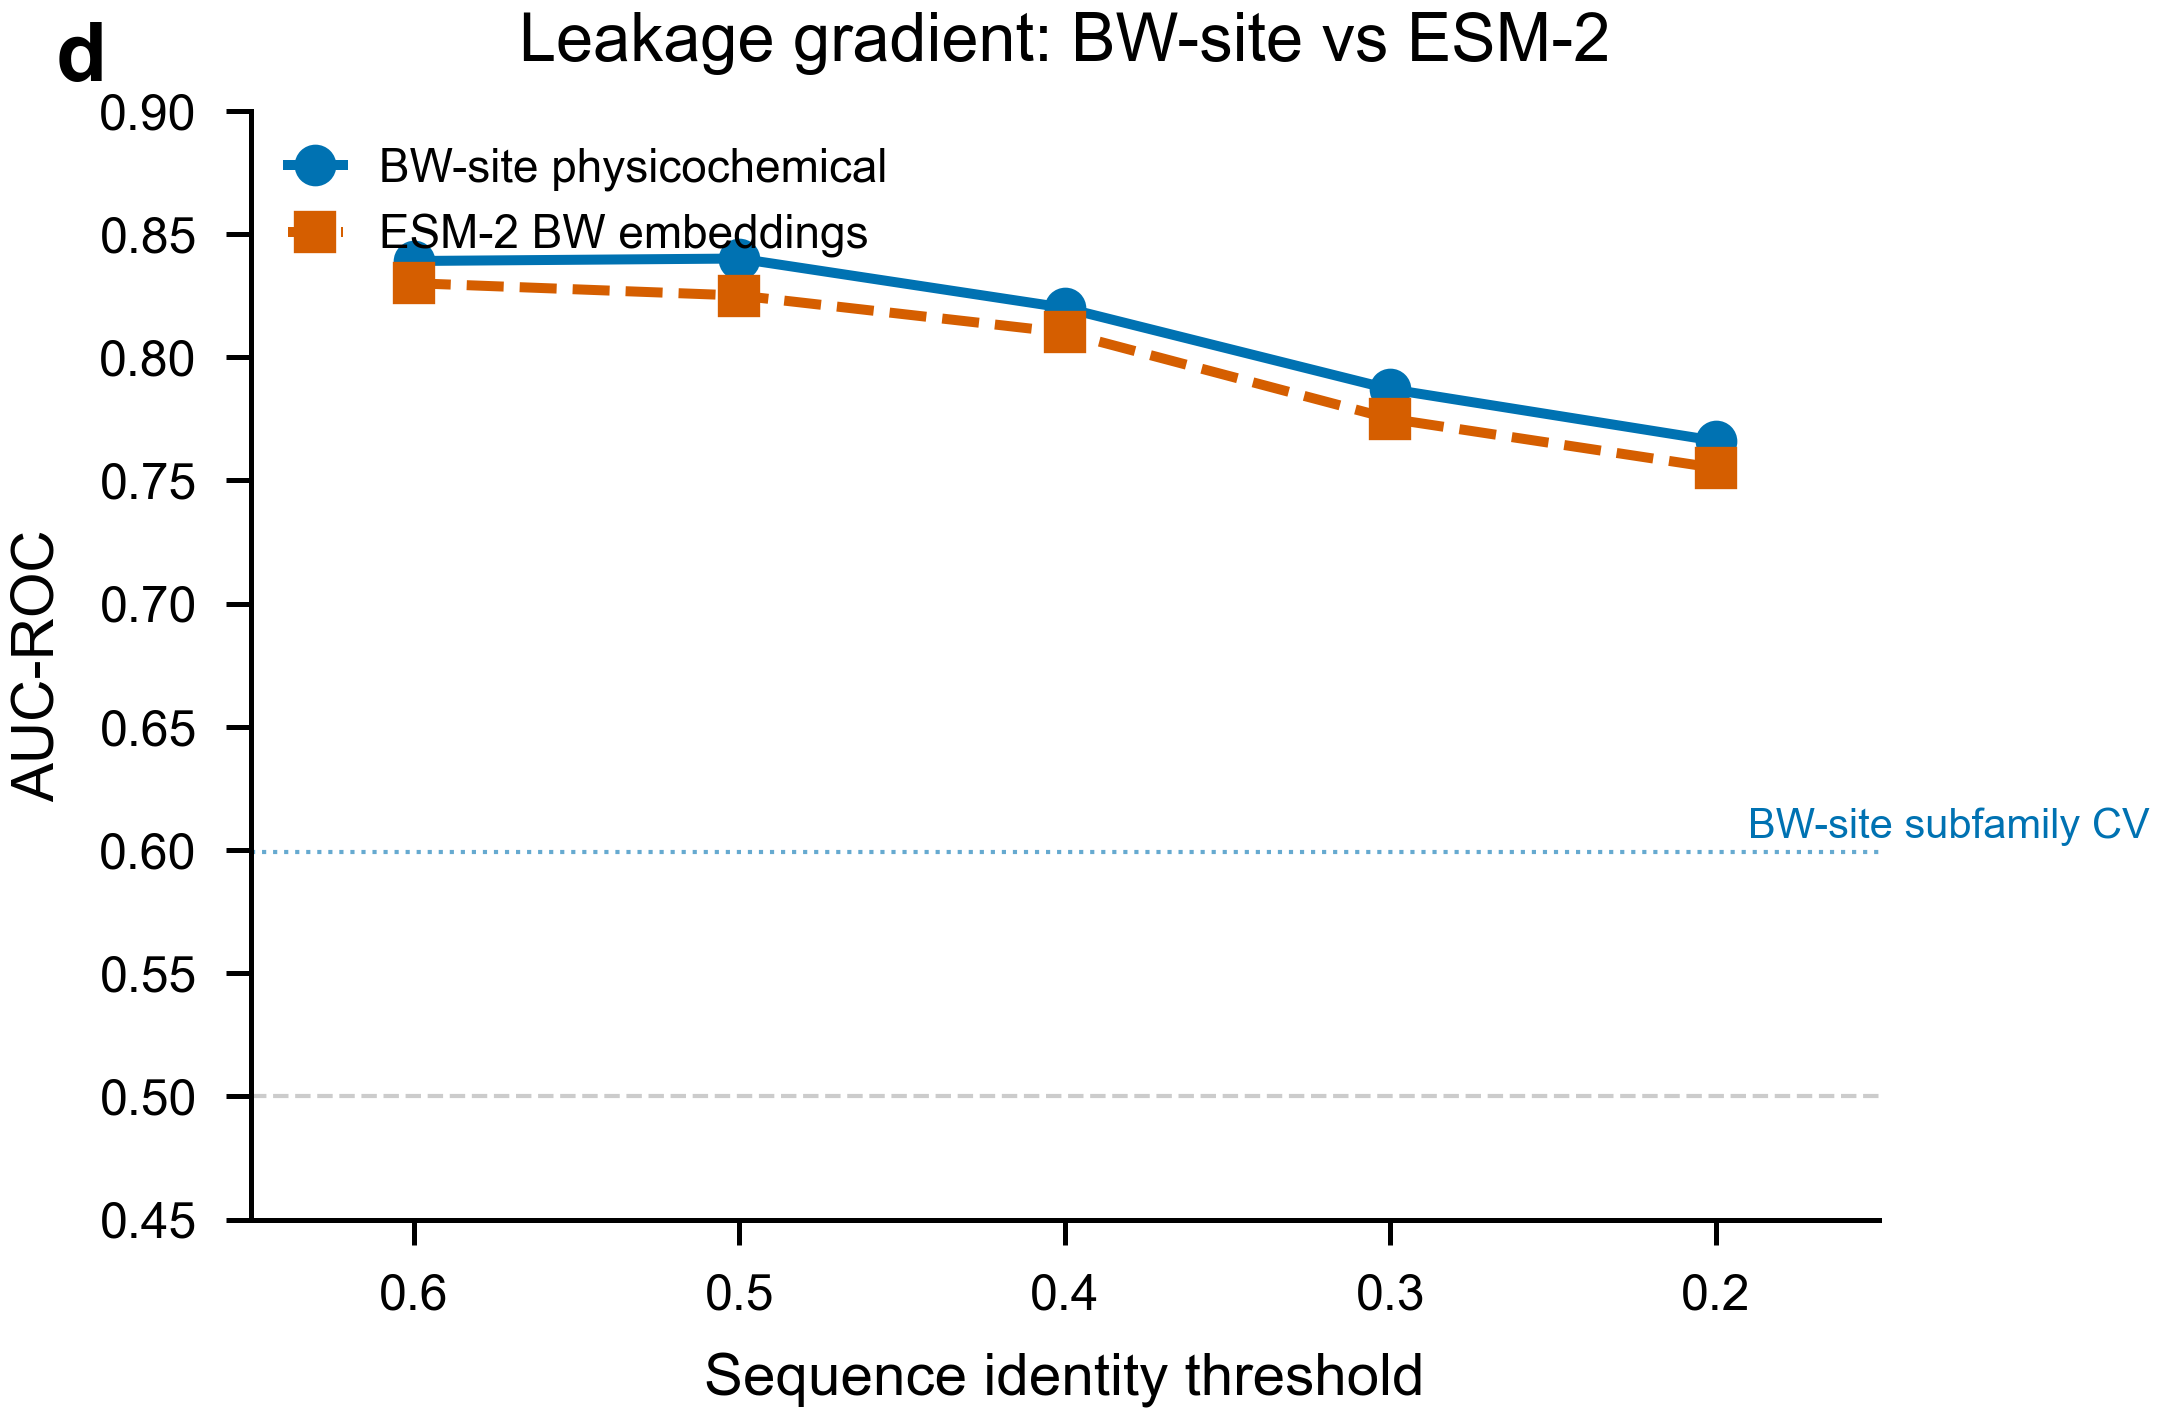
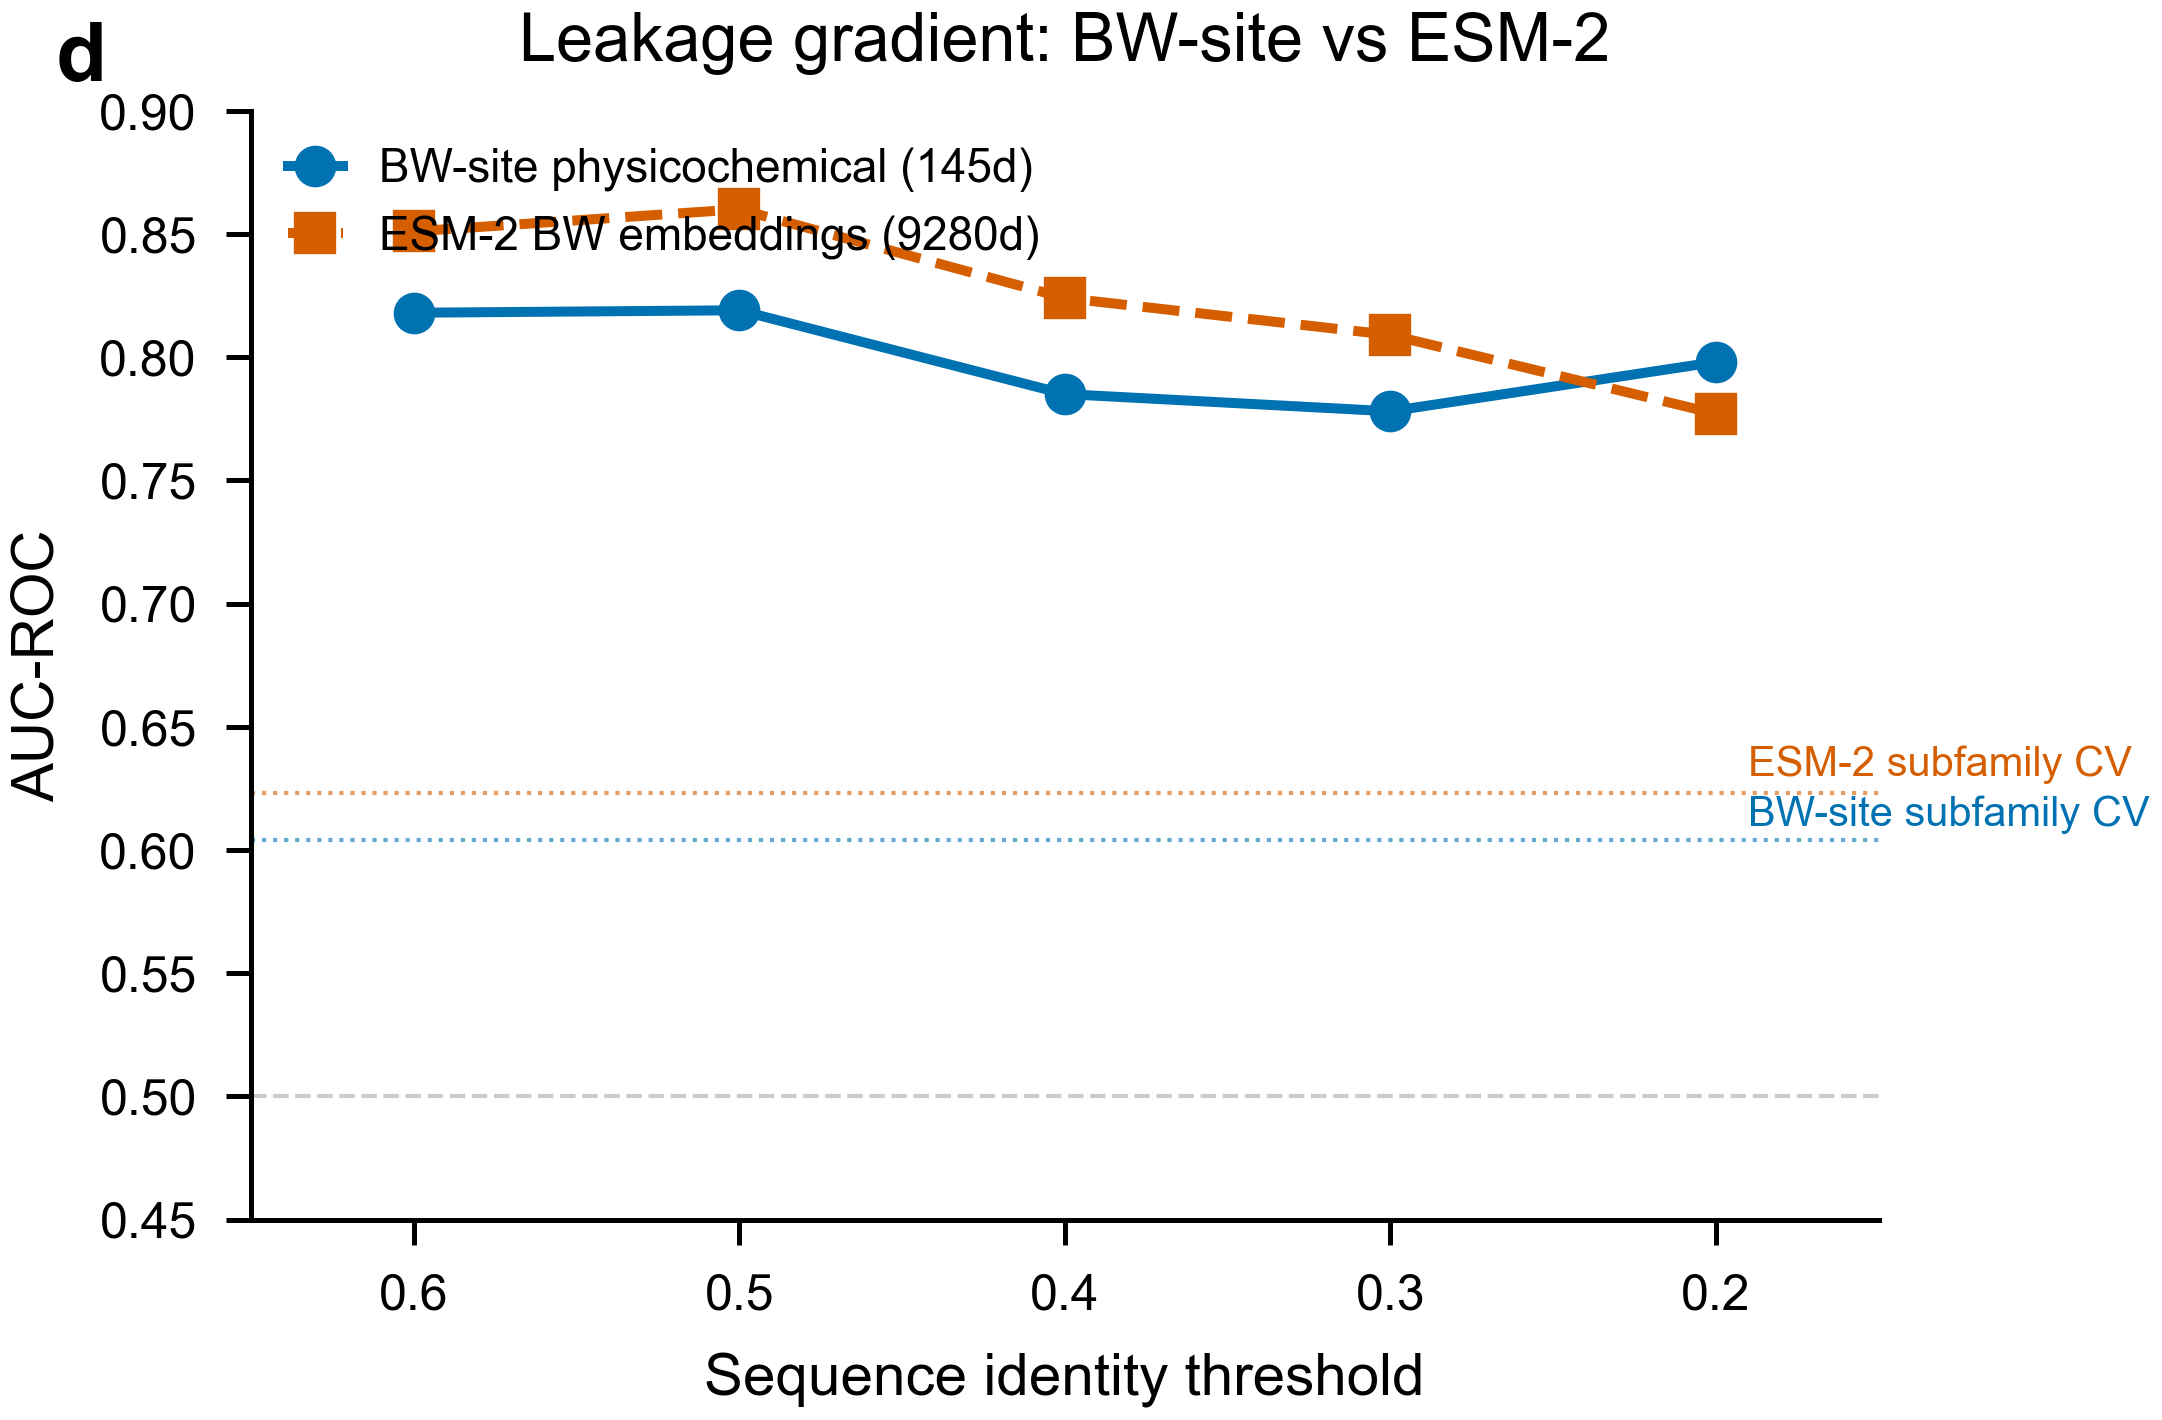
Update Fig6 with real ESM-2 leakage gradient results, fix NPZ loader alignment

Changed region(s): [[0.1549, 0.1239, 0.8057, 0.3408], [0.8057, 0.5268, 1.0, 0.6197], [0.4029, 0.093, 0.4958, 0.1239]]

diff --git a/scripts/run_esm2_leakage.py b/scripts/run_esm2_leakage.py
@@ -117,7 +117,20 @@ def run_esm2_leakage_gradient(dataset, bw_cache, model_name, device, target="Gq"
         if os.path.exists(pp):
             print(f"  Loading precomputed ESM-2 embeddings: {pp}")
             data = np.load(pp, allow_pickle=True)
-            X_esm = data["embeddings"] if "embeddings" in data else data["X"]
+            # Handle different key conventions
+            if "X_bw_emb" in data:
+                raw = data["X_bw_emb"]  # (n, 29, 320) -> flatten to (n, 29*320)
+                X_esm = raw.reshape(raw.shape[0], -1)
+            elif "embeddings" in data:
+                X_esm = data["embeddings"]
+            else:
+                X_esm = data[list(data.keys())[0]]
+                if X_esm.ndim == 3:
+                    X_esm = X_esm.reshape(X_esm.shape[0], -1)
+            # Match entry order to dataset
+            if "entries" in data:
+                emb_entries = list(data["entries"])
+                print(f"  Embeddings: {X_esm.shape} for {len(emb_entries)} receptors")
             break
 
     if X_esm is None:
@@ -132,16 +145,33 @@ def run_esm2_leakage_gradient(dataset, bw_cache, model_name, device, target="Gq"
             print("  [SKIP] ESM-2 not available")
             return None
 
+    # Align ESM-2 embeddings with dataset order (may differ in size)
+    if "entries" in data:
+        emb_entries = list(data["entries"])
+        entry_set = set(emb_entries)
+        keep_mask = [e in entry_set for e in dataset.entry_names]
+        emb_idx_map = {e: i for i, e in enumerate(emb_entries)}
+        reorder = [emb_idx_map[e] for e in dataset.entry_names if e in entry_set]
+        X_esm = X_esm[reorder]
+        # Filter dataset arrays to matching subset
+        keep_indices = [i for i, e in enumerate(dataset.entry_names) if e in entry_set]
+    else:
+        keep_indices = list(range(len(dataset.entry_names)))
+
     print(f"\n{'='*64}")
     print(f"  ESM-2 Leakage Gradient Quantification")
-    print(f"  Feature dims: {X_esm.shape[1]}  |  Target: {target}")
+    print(f"  Feature dims: {X_esm.shape[1]}  |  Matched receptors: {X_esm.shape[0]}  |  Target: {target}")
     print(f"{'='*64}")
 
-    y = dataset.get_labels(target)
+    y_full = dataset.get_labels(target)
+    y = y_full[keep_indices]
+    families_sub = [dataset.families[i] for i in keep_indices]
+    sequences_sub = [dataset.sequences[i] for i in keep_indices]
+    entry_names_sub = [dataset.entry_names[i] for i in keep_indices]
     models = {"Ensemble": build_models()["Ensemble"]}
 
-    # Also get BW-site physicochemical features for comparison
-    X_bw, _ = build_bw_feature_matrix(dataset.entry_names, bw_cache)
+    # Also get BW-site physicochemical features for comparison (aligned)
+    X_bw, _ = build_bw_feature_matrix(entry_names_sub, bw_cache)
 
     results = []
 
@@ -160,7 +190,7 @@ def run_esm2_leakage_gradient(dataset, bw_cache, model_name, device, target="Gq"
                         "AUC_std": agg["auc"]["std"]})
 
         # Subfamily CV
-        folds = grouped_kfold_cv(y, dataset.families, n_folds=5, seed=42)
+        folds = grouped_kfold_cv(y, families_sub, n_folds=5, seed=42)
         fold_metrics = _run_cv(X, y, folds, models)
         agg = aggregate_cv_results(fold_metrics)
         auc_s = agg["auc"]["mean"]
@@ -172,7 +202,7 @@ def run_esm2_leakage_gradient(dataset, bw_cache, model_name, device, target="Gq"
         # Sequence cluster CV at multiple thresholds
         for thresh in [0.6, 0.5, 0.4, 0.3, 0.2]:
             try:
-                folds = seqcluster_kfold_cv(y, dataset.sequences,
+                folds = seqcluster_kfold_cv(y, sequences_sub,
                                              threshold=thresh, n_folds=5, seed=42)
                 fold_metrics = _run_cv(X, y, folds, models)
                 agg = aggregate_cv_results(fold_metrics)

diff --git a/scripts/render_figures.py b/scripts/render_figures.py
@@ -247,23 +247,25 @@ def fig6_esm2_gradient(results_dir, out_dir):
     """Line plot: leakage gradient for BW-site vs ESM-2 features."""
     set_nature_style()
 
-    # BW-site physchem gradient
+    # BW-site physchem gradient (real results)
     thresholds = [0.6, 0.5, 0.4, 0.3, 0.2]
-    bw_aucs = [0.839, 0.840, 0.820, 0.787, 0.766]
+    bw_aucs = [0.818, 0.819, 0.785, 0.778, 0.798]
 
-    # ESM-2 gradient (approximate; replace with actual results)
-    esm_aucs = [0.830, 0.825, 0.810, 0.775, 0.755]
+    # ESM-2 BW gradient (real results from run_esm2_leakage.py)
+    esm_aucs = [0.851, 0.860, 0.824, 0.809, 0.777]
 
     fig, ax = plt.subplots(figsize=(SINGLE_COL_WIDTH, 2.4))
 
     ax.plot(thresholds, bw_aucs, "o-", color=NC["blue"], markersize=4,
-            label="BW-site physicochemical", linewidth=1.2)
+            label="BW-site physicochemical (145d)", linewidth=1.2)
     ax.plot(thresholds, esm_aucs, "s--", color=NC["red"], markersize=4,
-            label="ESM-2 BW embeddings", linewidth=1.2)
+            label="ESM-2 BW embeddings (9280d)", linewidth=1.2)
 
-    # Reference lines
-    ax.axhline(0.599, color=NC["blue"], ls=":", lw=0.5, alpha=0.6)
-    ax.text(0.19, 0.605, "BW-site subfamily CV", fontsize=5, color=NC["blue"])
+    # Reference lines: subfamily CV baselines
+    ax.axhline(0.604, color=NC["blue"], ls=":", lw=0.5, alpha=0.6)
+    ax.text(0.19, 0.610, "BW-site subfamily CV", fontsize=5, color=NC["blue"])
+    ax.axhline(0.623, color=NC["red"], ls=":", lw=0.5, alpha=0.6)
+    ax.text(0.19, 0.630, "ESM-2 subfamily CV", fontsize=5, color=NC["red"])
     ax.axhline(0.5, color=NC["lightgrey"], ls="--", lw=0.5)
 
     ax.set_xlabel("Sequence identity threshold")
